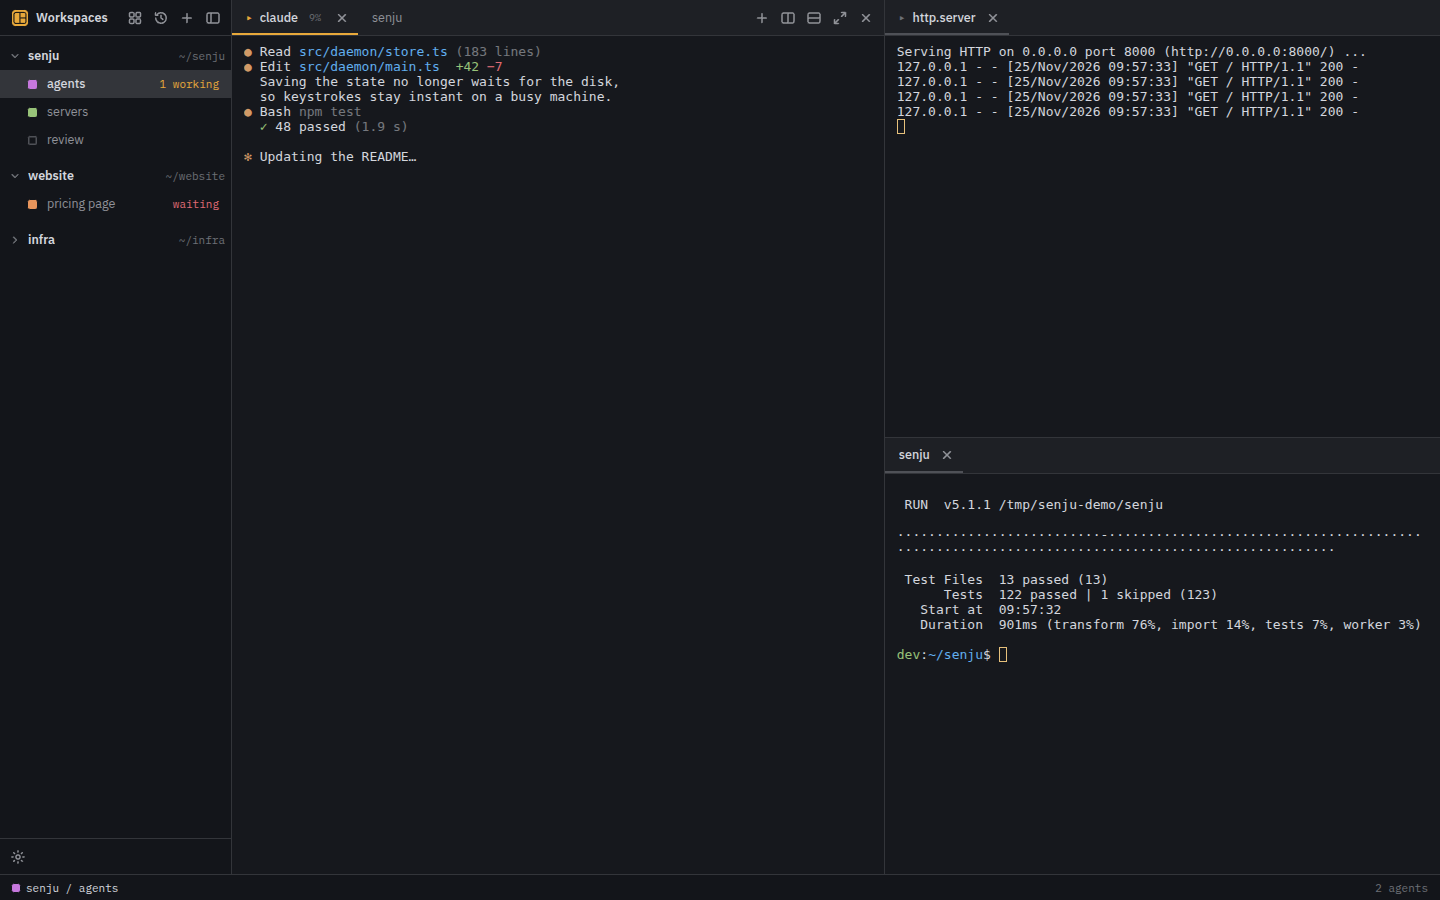
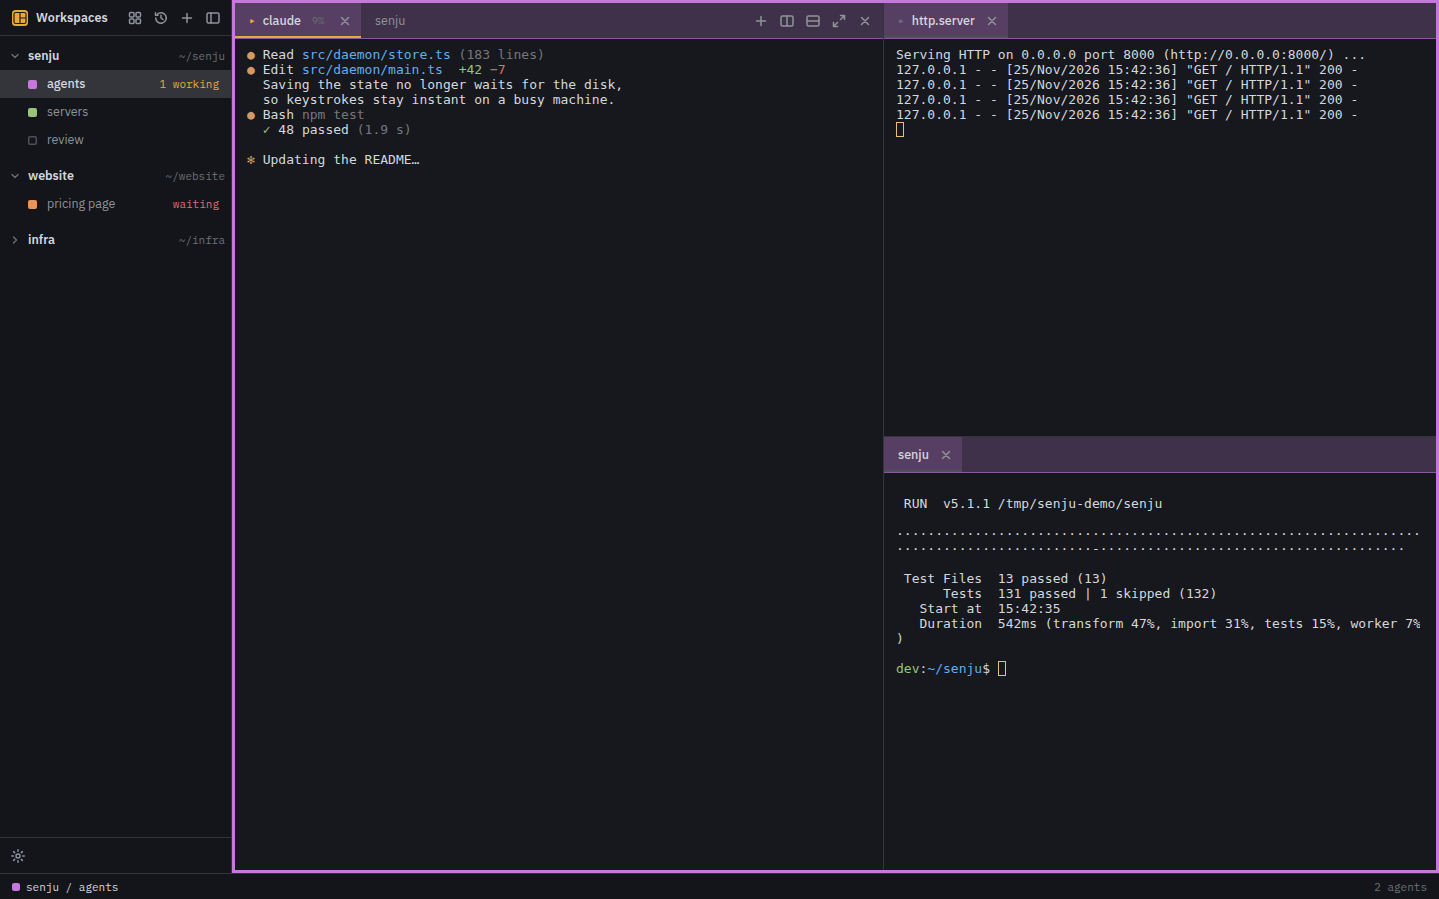
docs: bring the README and CLAUDE.md up to date, with fresh screenshots (#60)
- README: `checkForUpdates` in the settings table; workspace colors
frame the terminals and tint the tab bars; `test:perf` and
`update-e2e-mac.mjs` in Development, with a note to run UI tests under
`xvfb-run`; what `src/main` does now (windows, output routing, viewer
windows, notifications, updates); a new viewer screenshot.
- Screenshots regenerated under Xvfb (workspace frame and tab bars
visible); `scripts/screenshots.mjs` takes the viewer shot and silences
npm's update notice in the demo.
- CLAUDE.md: `npm ci` in a new checkout or worktree; test windows take
the keyboard focus, so run `test:ui` and `screenshots` under `xvfb-run`;
the status bar keeps to totals; a workspace's own color is the exception
to the theme-derived palette.

Tested: `xvfb-run -a -s "-screen 0 1440x900x24" npm run test:ui` — all
checks passed; screenshots checked by eye.

🤖 Generated with [Claude Code](https://claude.com/claude-code)

diff --git a/README.md b/README.md
@@ -24,7 +24,7 @@ Close the window, crash it, update it or reboot the computer: the layout, the ta
 - Groups in the sidebar, one per project, each with a list of workspaces and its own default folder.
 - Workspaces split horizontally and vertically into panes with any nesting; every pane has its own tabs.
 - Maximize a pane to read it over the whole workspace (the button in its tab bar, its context menu or the shortcut), and restore it the same way; moving the focus to another pane restores it too.
-- Colors for workspaces, drag and drop for groups, workspaces and tabs (also between panes), inline renaming.
+- Workspace colors that frame the workspace's terminals and tint their tab bars, drag and drop for groups, workspaces and tabs (also between panes), inline renaming.
 - Close a group you are not working on (**Close Group** in its context menu): its processes stop and it is saved to disk. Reopen it from the clock button at the top of the sidebar, and it comes back at its place with its workspaces, layout and scrollback, agents resuming their sessions as after a reboot. **Save Group As…** writes a group to a `.senju` file, and **Open Group from File…** in the same menu opens one as a new group, e.g. on another computer.
 - Several windows, each with its own groups: open an empty one with Ctrl+Shift+O (Cmd+Shift+O), or move a group to a new or another window with **Move to Window** in its context menu. A single tab moves the same way, from the menu of its tab, or by dragging it onto a tab bar of another window; its program keeps running. Senju opens every window again with its groups, place and size. Closing a window while others are open moves its groups to the end of the window you used before it; their processes keep running.
 - A collapsible sidebar that shrinks to a rail of workspace markers, with the button that expands it and a **⋯** menu for new groups, all agents, closed groups and settings.
@@ -66,6 +66,9 @@ Close the window, crash it, update it or reboot the computer: the layout, the ta
   <tr>
     <td width="50%"><img src="docs/screenshots/shortcuts.png" alt="Keyboard shortcut settings"><br><sub>Every shortcut can be changed.</sub></td>
     <td width="50%"><img src="docs/screenshots/menu.png" alt="Workspace menu with the color submenu open"><br><sub>Workspace colors and context menus.</sub></td>
+  </tr>
+  <tr>
+    <td colspan="2"><img src="docs/screenshots/viewer.png" alt="A Markdown report an agent opened in a viewer tab next to its terminal"><br><sub>What an agent made, in a viewer next to its terminal.</sub></td>
   </tr>
   <tr>
     <td colspan="2"><img src="docs/screenshots/overview.png" alt="All agents: a card per agent with its status, configuration, account, model, context and the last lines of its screen"><br><sub>All agents, with the configuration, account or API and model each one runs with.</sub></td>
@@ -263,6 +266,7 @@ Settings live in `settings.json`, which holds only what differs from the default
 | `persistedScrollback` | `5000` | Lines saved per terminal and restored after a reboot. |
 | `autoRestart` | dev servers, log followers, monitors | Regular expressions for command lines that restart automatically after a reboot. |
 | `copyOnSelect` | `false` | Copy selected text to the clipboard. |
+| `checkForUpdates` | `true` | Look for a new release at start and every four hours; installing always asks first. |
 
 Changes in the settings page apply right away; edits to the file apply when the app starts. `shell`, `scrollback`, `autoRestart` and recipes are read by the background service when it starts.
 
@@ -332,17 +336,20 @@ npm run typecheck
 npm test             # unit tests
 npm run test:daemon  # end-to-end test of the background service: terminals, jobs, agents, restore
 npm run test:ui      # drives the app with Playwright and saves screenshots to ui-smoke/
-npm run test:perf    # keystroke latency under heavy output, switching times
+npm run test:perf    # keystroke latency under heavy output, switching times, a load of agents
 npm run test:network # a network share and an update server on a bad connection (Linux, needs fusermount3)
 npm run screenshots  # regenerates the README screenshots in docs/screenshots/
 npm run icons        # renders build/icon.svg into the app icons
-node scripts/update-e2e.mjs <old.AppImage> <dir>  # self-update test, see the script
+node scripts/update-e2e.mjs <old.AppImage> <dir>  # AppImage self-update test, see the script
+node scripts/update-e2e-mac.mjs                   # the same for macOS (runs in CI)
 ```
+
+The UI tests and the screenshots open windows that take the keyboard focus, so what you type meanwhile goes into them. On Linux, run them on a virtual display instead: `xvfb-run -a -s "-screen 0 1440x900x24" npm run test:ui` (Chromium fails to capture screenshots on the default 8-bit screen).
 
 The code is split by process:
 
 - `src/daemon` — the background service: owns the pseudo terminals (node-pty), mirrors each into a headless xterm for scrollback, tracks folders, programs and agent sessions, and saves the state.
-- `src/main` — the Electron main process: starts or connects to the service and relays messages.
+- `src/main` — the Electron main process: starts or connects to the service, opens the windows and sends each the output of its own terminals, opens viewers in windows of their own, shows notifications and installs updates.
 - `src/renderer` — the UI: sidebar, pane layout, tabs, xterm.js terminals, settings, menus and dialogs.
 - `src/cli` — the `senju` command and its MCP server, run in terminals with Electron as Node.
 - `src/shared` — state types, the protocol, layout operations, commands, settings and themes.

diff --git a/CLAUDE.md b/CLAUDE.md
@@ -12,6 +12,7 @@ Everything in this repository must be in English: code, comments, identifiers, d
 
 ## Commands
 
+- A new checkout or worktree needs `npm ci` first: `node_modules` is not shared, and a build without it fails on missing modules.
 - `npm run build` — bundle with esbuild into `dist/` (`build.mjs`).
 - `npm run typecheck`, `npm test` (vitest, pure modules only).
 - `npm run test:daemon` — end-to-end daemon test in a throwaway `SENJU_HOME`; run it after touching `src/daemon`.
@@ -37,6 +38,7 @@ Everything in this repository must be in English: code, comments, identifiers, d
 - Playwright's `app.close()` hangs because the daemon outlives the UI; end a test with `window.senju.stopAll()` and wait for the process `exit` event.
 - Stray test daemons: find them by `SENJU_HOME` in `/proc/<pid>/environ`; never `pkill -f` a pattern, it can match the calling shell.
 - Fake agents in tests: run them by absolute path with a user recipe override; a bare `claude` starts the real one from the user's PATH.
+- Test windows (`test:ui`, `screenshots`) take the keyboard focus, so whatever the user types lands in them: stray text in demo terminals and flaky checks. Run them under `xvfb-run -a -s "-screen 0 1440x900x24"` when it is installed (CI does; an 8-bit screen breaks screenshots), otherwise ask the user not to type meanwhile, and check screenshots for stray input before committing them.
 
 ## Architecture
 
@@ -54,9 +56,10 @@ Everything in this repository must be in English: code, comments, identifiers, d
 - A vanished job or a shell killed by a signal is kept for a grace period, so processes killed by a system shutdown are still restored, while ones the user closed are not.
 - Process inspection (`src/daemon/procinfo.ts`) reads `/proc` on Linux, uses `ps`/`lsof` on macOS and is unavailable on Windows.
 - State files of older versions are migrated in `src/daemon/store.ts`; bump `AppState.version` and add a migration when the persisted shape changes.
-- UI design system (`src/renderer/styles.css`): every color derives from the theme's background and foreground plus the brand amber; one bar height (`--bar`), row height (`--row`) and radius scale; icons only from `src/renderer/icons.ts`; menus and dialogs are drawn by the app (`menu.ts`, `dialog.ts`, `color-picker.ts`), never native, so they follow the theme.
+- UI design system (`src/renderer/styles.css`): every color derives from the theme's background and foreground plus the brand amber, except a workspace's own color (`--ws-color`: its frame and tab bars, sidebar markers); one bar height (`--bar`), row height (`--row`) and radius scale; icons only from `src/renderer/icons.ts`; menus and dialogs are drawn by the app (`menu.ts`, `dialog.ts`, `color-picker.ts`), never native, so they follow the theme.
 - Commands and their default shortcuts live in `src/shared/commands.ts`; users override them in settings (`keybindings`). Defaults must not take keys that programs inside a terminal can receive: Ctrl+Shift combinations and Ctrl+Tab on Linux/Windows, Cmd on macOS.
 - Settings (`src/shared/settings.ts`) are saved from the settings page and keep only values that differ from the defaults. Renderer code must not import modules that touch the file system; theme helpers live in `src/shared/themes.ts`.
 - Every window gets the whole state and renders its share (`windowView`); the main process sends a terminal's output only to the window showing it. Actions that depend on a window (`createGroup`, `setUi`, reopening or importing a group) name it.
+- The status bar shows totals only (where you are, agents waiting, all agents, zoom): one item per agent or workspace crowds it out with many agents. Single agents belong on their tabs, in the sidebar and in All agents.
 - The renderer re-renders on every state broadcast; keep DOM elements per id and update them in place (`placeChildren`), or double clicks, focus and inline renames break.
 - The renderer is offline under a strict CSP: fonts are bundled (`@fontsource`, esbuild file loader), nothing loads from the network.
